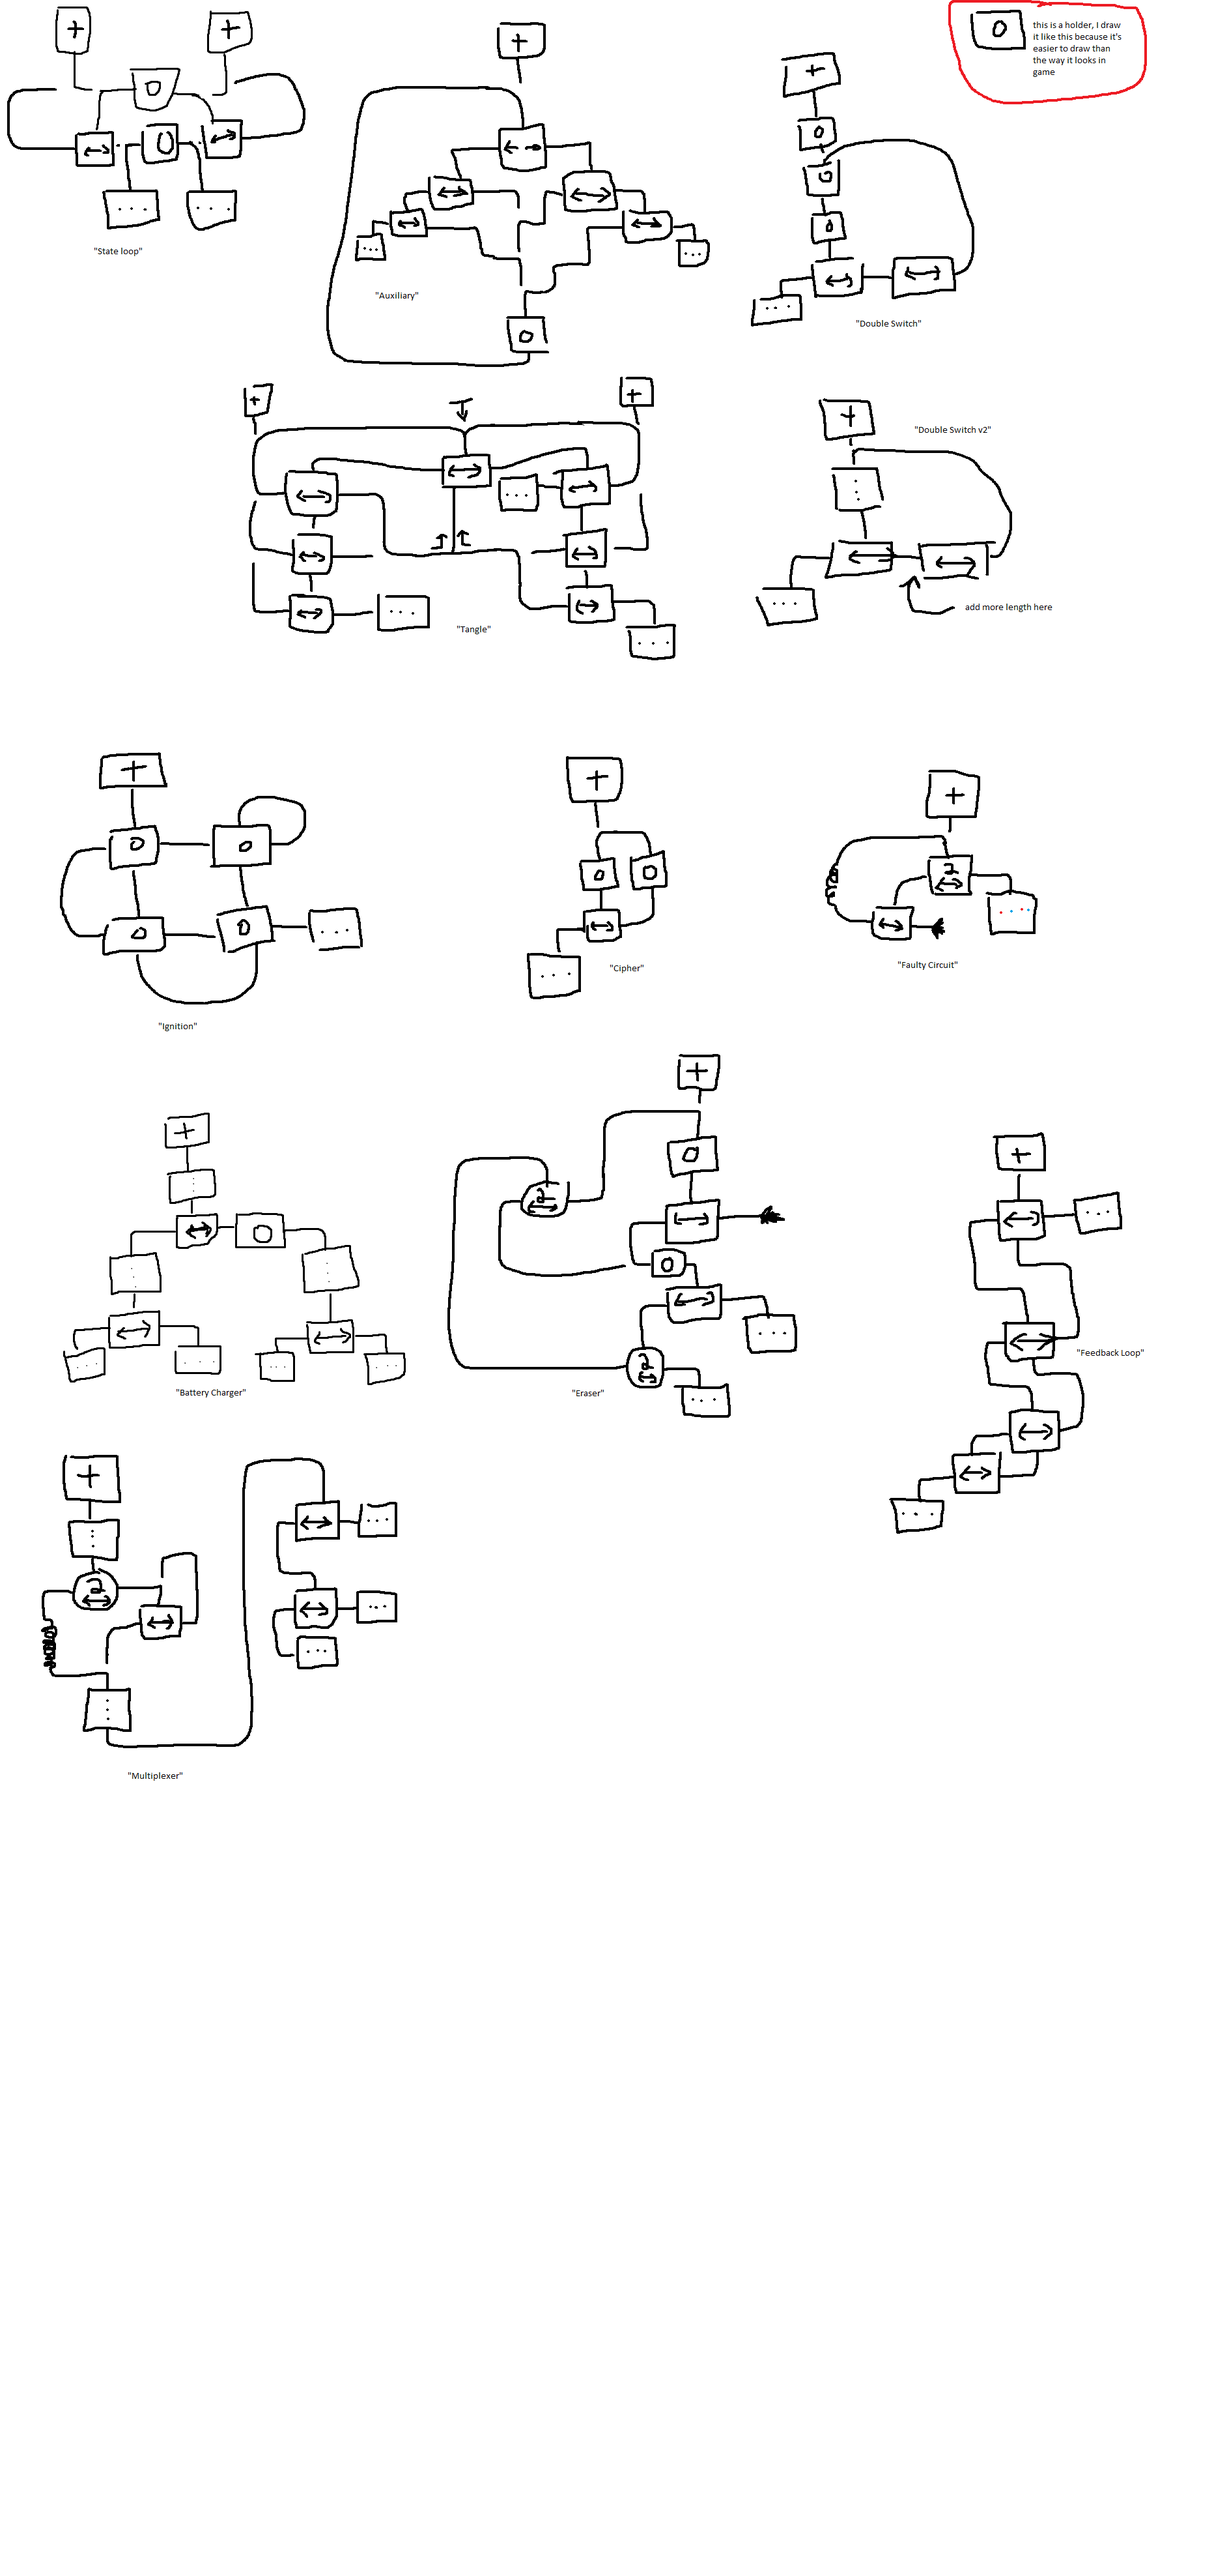
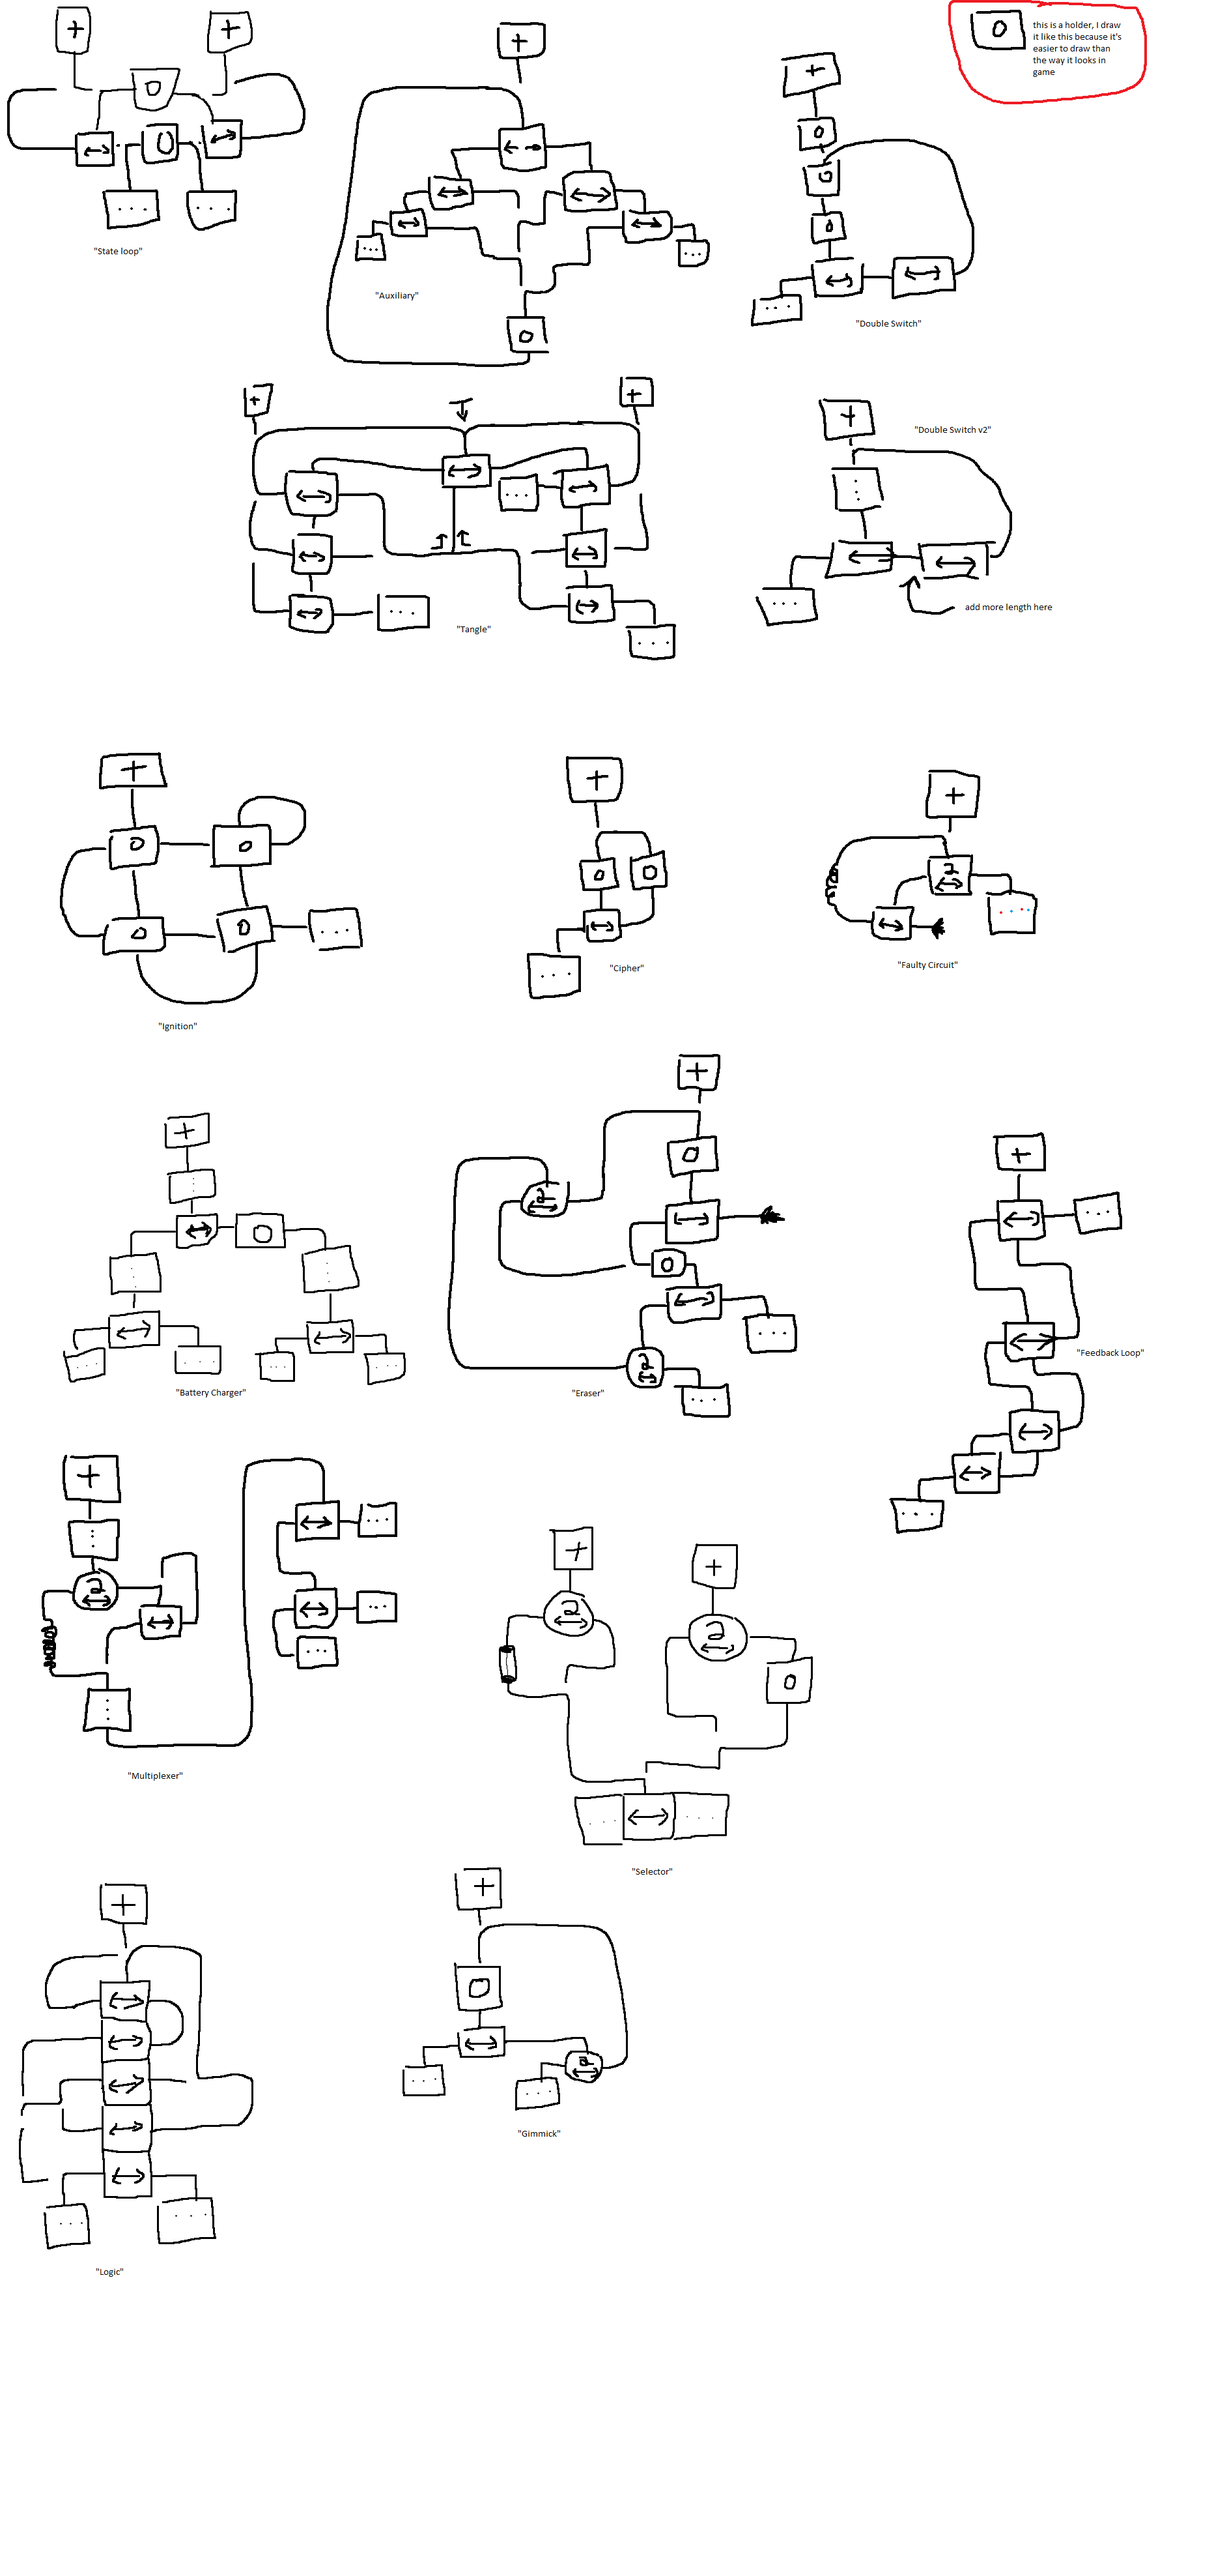
Add 2 more levels, plus more concepts

diff --git a/index.html b/index.html
@@ -101,6 +101,14 @@
         <td>Level 9</td>
         <td>10</td>
     </tr>
+    <tr>
+        <td>Level 10</td>
+        <td>5</td>
+    </tr>
+    <tr>
+        <td>Level 11</td>
+        <td>4</td>
+    </tr>
   </table>
   <p><small>Game prototype by <a href="https://www.maxlaumeister.com/">Maximillian Laumeister</a> &bull; <a href="https://github.com/MaxLaumeister/electric-puzzles">Source Code</a></small></p>
   <p><small>Sound effects CC-BY by <a href="https://freesound.org/people/LittleRobotSoundFactory/packs/16881/">LittleRobotSoundFactory</a>.</small></p>
@@ -355,9 +363,9 @@
     }
     
     class Holder extends Component {
-        constructor(orientation) {
-            super(orientation);
-            this.held = null;
+        constructor(heldColor) {
+            super(0);
+            this.held = heldColor ? new Signal(0, heldColor): null;
         }
         
         processSignals() {
@@ -867,7 +875,9 @@
         "Infinite Loop",
         "Battery",
         "State Machine",
-        "Battery Bank"
+        "Battery Bank",
+        "Ignition",
+        "Gimmick"
     ];
     var levelGrids = [
         null,
@@ -903,7 +913,7 @@
           [null, null, new Wire2Way(3), null, new WireBendVariant1(3), new Wire2Way(0), new Wire2Way(0), new WireBend(2), null, null],
           [null, null, new WireBendVariant1(3), new Wire2Way(0), new Diverter(0), new WireBend(2), null, new Wire2Way(3), null, null],
           [null, null, new Wire2Way(3), null, null, new Wire2Way(3), null, new Wire2Way(3), null, null],
-          [null, null, new Holder(0), null, new WireBend(3), new WireBend(1), null, new Wire2Way(3), null, null],
+          [null, null, new Holder(), null, new WireBend(3), new WireBend(1), null, new Wire2Way(3), null, null],
           [null, null, new WireBendVariant1(3), new Wire2Way(0), new Diverter(0), new WireBend(2), null, new Wire2Way(3), null, null],
           [null, null, new Wire2Way(3), null, null, new Catcher(0, ["blue", "red", "green"]), null, new Wire2Way(3), null, null],
           [null, new WireBend(3), new Diverter(0), new WireBend(2), null, null, null, new Wire2Way(3), null, null],
@@ -917,9 +927,9 @@
           [null, null, null, null, new Wire2Way(3), null, null, null, null, null],
           [new WireBend(3), new Wire2Way(0), new Wire2Way(0), new Wire2Way(0), new Diverter(0), new Wire2Way(0), new Wire2Way(0), new Wire2Way(0), new WireBend(2), null],
           [new Wire2Way(3), null, null, null, null, null, null, new WireBend(3), new Diverter(0), new WireBend(2)],
-          [new WireBend(0), new WireBendVariant2(3), new Wire2Way(0), new Wire2Way(0), new Holder(0), new Wire2Way(0), new Wire2Way(0), new WireBendVariant3(2), new Wire2Way(0), new WireBend(1)],
+          [new WireBend(0), new WireBendVariant2(3), new Wire2Way(0), new Wire2Way(0), new Holder(), new Wire2Way(0), new Wire2Way(0), new WireBendVariant3(2), new Wire2Way(0), new WireBend(1)],
           [null, new Wire2Way(3), null, null, null, null, null, new Wire2Way(3), null, null],
-          [null, new WireBend(0), new WireBendVariant2(3), new Wire2Way(2), new Holder(0), new Wire2Way(2), new WireBendVariant1(2), new WireBend(1), null, null],
+          [null, new WireBend(0), new WireBendVariant2(3), new Wire2Way(2), new Holder(), new Wire2Way(2), new WireBendVariant1(2), new WireBend(1), null, null],
           [null, null, new Catcher(0, ["blue", "red", "green"]), null, null, null, new Catcher(0, ["green", "red"]), null, null, null],
           [null, null, null, null, null, null, null, null, null, null]
         ],
@@ -929,7 +939,7 @@
           [null, null, null, null, null, null, null, null, null, null],
           [null, null, null, new Thrower(3), null, null, new Thrower(3), null, null, null],
           [null, null, null, new Wire2Way(3), null, null, new Wire2Way(3), null, null, null],
-          [null, null, null, new WireBendVariant1(3), new Holder(0), new Wire2Way(0), new Duplicator(0), new WireBend(2), null, null],
+          [null, null, null, new WireBendVariant1(3), new Holder(), new Wire2Way(0), new Duplicator(0), new WireBend(2), null, null],
           [null, null, null, new Wire2Way(3), null, null, new WireBend(3), new WireBend(1), null, null],
           [null, null, null, new Catcher(0, ["red", "green", "red", "green", "blue"]), null, null, new Catcher(0, ["red", "red", "green", "blue"]), null, null, null],
           [null, null, null, null, null, null, null, null, null, null, null],
@@ -967,9 +977,9 @@
           [null, null, null, null, null, null, null, null, null, null],
           [null, null, new Thrower(3), null, null, null, new Thrower(3), null, null, null],
           [null, null, new Wire2Way(3), null, null, null, new Wire2Way(3), null, null, null],
-          [null, new WireBend(3), new Diverter(1), new Wire2Way(0), new Holder(0), new Wire2Way(0), new Diverter(0), new WireBend(2), null, null],
+          [null, new WireBend(3), new Diverter(1), new Wire2Way(0), new Holder(), new Wire2Way(0), new Diverter(0), new WireBend(2), null, null],
           [null, new Wire2Way(3), new WireBend(0), new WireBend(2), null, new WireBend(3), new WireBend(1), new Wire2Way(3), null, null],
-          [new WireBend(3), new Diverter(1), new WireBend(2), new Holder(0), null, new Holder(0), new WireBend(3), new Diverter(0), new WireBend(2), null],
+          [new WireBend(3), new Diverter(1), new WireBend(2), new Holder(), null, new Holder(), new WireBend(3), new Diverter(0), new WireBend(2), null],
           [new Catcher(0, ["red", "red", "green", "blue"]), null, new WireBend(0), new WireBend(1), null, new WireBend(0), new WireBend(1), null, new Catcher(0, ["red", "red", "green", "blue"]), null],
           [null, null, null, null, null, null, null, null, null, null],
           [null, null, null, null, null, null, null, null, null, null],
@@ -987,6 +997,32 @@
           [new Wire2Way(3), new Wire2Way(3), null, null, null, null, null, new Wire2Way(3), new Wire2Way(3), null],
           [new WireBendVariant2(0), new Diverter(1), new WireBend(2), null, null, null, new WireBend(3), new Diverter(0), new WireBendVariant1(1), null],
           [new WireBend(0), new Wire2Way(0), new Diverter(1), new Catcher(0, ["red", "green", "blue"]), null, new Catcher(0, ["blue", "green", "red"]), new Diverter(0), new Wire2Way(0), new WireBend(1), null]
+        ],
+        // Level 10
+        [
+            [null, new Thrower(3), null, null, null, null, null, null, null, null],
+            [null, new Wire2Way(1), null, new WireBend(3), new WireBend(2), null, null, null, null, null],
+            [new WireBend(3), new Holder("black"), new Wire2Way(0), new Holder("black"), new WireBend(1), null, null, null, null, null],
+            [new Wire2Way(1), new Wire2Way(1), null, new Wire2Way(1), null, null, null, null, null, null],
+            [new WireBend(0), new Holder("red"), new Wire2Way(0), new Holder(), new Wire2Way(0), new Catcher(0, ["red", "blue", "green"]), null, null, null, null],
+            [null, new WireBend(0), new Wire2Way(0), new WireBend(1), null, null, null, null, null, null],
+            [null, null, null, null, null, null, null, null, null, null],
+            [null, null, null, null, null, null, null, null, null, null],
+            [null, null, null, null, null, null, null, null, null, null],
+            [null, null, null, null, null, null, null, null, null, null]
+        ],
+        // Level 11
+        [
+            [null, null, null, null, null, null, null, null, null, null],
+            [null, null, new Thrower(3), null, null, null, null, null, null, null],
+            [null, null, new WireBendVariant1(3), new Wire2Way(0), new WireBend(2), null, null, null, null, null],
+            [null, null, new Holder("red"), null, new Wire2Way(1), null, null, null, null, null],
+            [null, null, new Wire2Way(1), null, new Wire2Way(1), null, null, null, null, null],
+            [null, new WireBend(3), new Diverter(0), new WireBend(2), new Wire2Way(1), null, null, null, null, null],
+            [null, new Catcher(0, ["blue", "red", "blue","red"]), new WireBend(3), new Duplicator(0), new WireBend(1), null, null, null, null, null],
+            [null, null, new Catcher(0, ["green", "green", "green"]), null, null, null, null, null, null, null],
+            [null, null, null, null, null, null, null, null, null, null],
+            [null, null, null, null, null, null, null, null, null, null],
         ]
     ];
     
